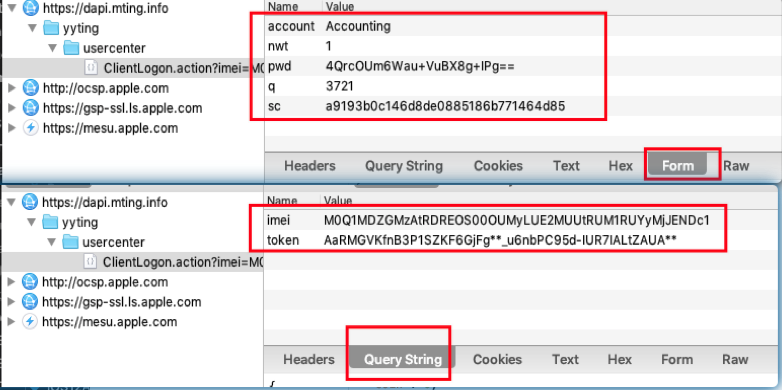
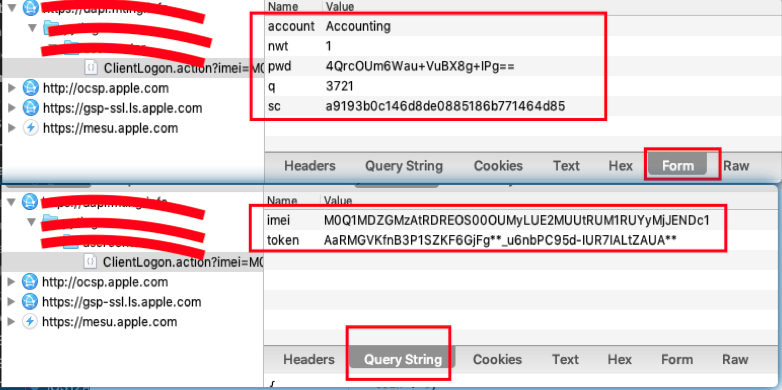
no message

Changed region(s): [[0.0307, 0.4923, 0.2762, 0.6769], [0.0307, 0.0, 0.2762, 0.1846]]

diff --git a/2019/12/23/ListenBookApp/index.html b/2019/12/23/ListenBookApp/index.html
@@ -259,7 +259,7 @@
 </li>
 <li><p>通过Charles抓包。猜测是通过token判断是不是VIP，如果不是，list列表为空，就没有播放链接，这下就歇菜了。</p>
 <ul>
-<li>进入播放页面请求：<a href="https://dapis.mting.info/yyting/gateway/entityPath.action(此处省略很多)" target="_blank" rel="noopener">https://dapis.mting.info/yyting/gateway/entityPath.action(此处省略很多)</a></li>
+<li>进入播放页面请求：<a href="https://XXOO.info/yyting/gateway/entityPath.action(此处省略很多)" target="_blank" rel="noopener">https://XXOO.info/yyting/gateway/entityPath.action(此处省略很多)</a></li>
 <li>进入播放页面响应：<figure class="highlight plain"><table><tr><td class="gutter"><pre><span class="line">1</span><br><span class="line">2</span><br><span class="line">3</span><br><span class="line">4</span><br><span class="line">5</span><br></pre></td><td class="code"><pre><span class="line">&#123;</span><br><span class="line">  &quot;list&quot;: null,</span><br><span class="line">  &quot;msg&quot;: &quot;收费章节未购买!&quot;,</span><br><span class="line">  &quot;status&quot;: 2</span><br><span class="line">&#125;</span><br></pre></td></tr></table></figure>
 </li>
 </ul>
@@ -270,7 +270,7 @@
 <h2 id="逆向登录过程"><a href="#逆向登录过程" class="headerlink" title="逆向登录过程"></a>逆向登录过程</h2><h3 id="请求参数"><a href="#请求参数" class="headerlink" title="请求参数"></a>请求参数</h3><ul>
 <li>到登录界面，输入用户名和密码，点击登录。通过Charles抓包如图<br><img src="/images/ListenBookApp-02.png" alt></li>
 <li>上图可知请求分为三部分:<ul>
-<li>BaseURL:<code>https://dapi.mting.info/yyting/usercenter/ClientLogon.action</code></li>
+<li>BaseURL:<code>https://XXOO.info/XXOO/ClientLogon.action</code></li>
 <li>Query String: <code>imei</code>和<code>token</code></li>
 <li>Form: <code>account</code>,<code>pwd</code>,<code>nwt</code>,<code>q</code>,<code>sc</code></li>
 </ul>
@@ -351,8 +351,8 @@
 <li><p>再次点击登录按钮发现确实执行了，这个值跟Chales里面看到的值是一样的。</p>
 <figure class="highlight shell"><table><tr><td class="gutter"><pre><span class="line">1</span><br><span class="line">2</span><br><span class="line">3</span><br></pre></td><td class="code"><pre><span class="line">Started tracing 13 functions. Press Ctrl+C to stop.</span><br><span class="line">         /* TID 0x403 */</span><br><span class="line">1203 ms  -[__NSDictionaryM setObject:e7b06599148c4dab5daf45b526e69a4f forKey:sc]</span><br></pre></td></tr></table></figure>
 </li>
-<li><p>这个时候就需要追踪v60的来源。发现v60是<code>[v57 MD5DigestToNSString]</code>，也就是对v57进行md5得到v60。而v57又来自于v56。v56是拼接的字符串，拼接的是<code>v55</code>和<code>OoiwGoii2!5kU#@ku0BWm</code>两个字符串。</p>
-<figure class="highlight shell"><table><tr><td class="gutter"><pre><span class="line">1</span><br><span class="line">2</span><br><span class="line">3</span><br><span class="line">4</span><br><span class="line">5</span><br><span class="line">6</span><br><span class="line">7</span><br><span class="line">8</span><br><span class="line">9</span><br><span class="line">10</span><br><span class="line">11</span><br></pre></td><td class="code"><pre><span class="line">v56 = objc_msgSend(</span><br><span class="line">        &amp;OBJC_CLASS___NSString,</span><br><span class="line">        "stringWithFormat:",</span><br><span class="line">        CFSTR("%@%@"),</span><br><span class="line">        v55,</span><br><span class="line">        CFSTR("OoiwGoii2!5kU#@ku0BWm"),</span><br><span class="line">        v83);</span><br><span class="line">v57 = (void *)objc_retainAutoreleasedReturnValue(v56);</span><br><span class="line">v58 = v57;</span><br><span class="line">v59 = objc_msgSend(v57, "MD5DigestToNSString");</span><br><span class="line">v60 = (void *)objc_retainAutoreleasedReturnValue(v59);</span><br></pre></td></tr></table></figure>
+<li><p>这个时候就需要追踪v60的来源。发现v60是<code>[v57 MD5DigestToNSString]</code>，也就是对v57进行md5得到v60。而v57又来自于v56。v56是拼接的字符串，拼接的是<code>v55</code>和<code>OoiwGXXOO!5kU#@ku0BWm</code>两个字符串。</p>
+<figure class="highlight shell"><table><tr><td class="gutter"><pre><span class="line">1</span><br><span class="line">2</span><br><span class="line">3</span><br><span class="line">4</span><br><span class="line">5</span><br><span class="line">6</span><br><span class="line">7</span><br><span class="line">8</span><br><span class="line">9</span><br><span class="line">10</span><br><span class="line">11</span><br></pre></td><td class="code"><pre><span class="line">v56 = objc_msgSend(</span><br><span class="line">        &amp;OBJC_CLASS___NSString,</span><br><span class="line">        "stringWithFormat:",</span><br><span class="line">        CFSTR("%@%@"),</span><br><span class="line">        v55,</span><br><span class="line">        CFSTR("OoiwGXXOO!5kU#@ku0BWm"),</span><br><span class="line">        v83);</span><br><span class="line">v57 = (void *)objc_retainAutoreleasedReturnValue(v56);</span><br><span class="line">v58 = v57;</span><br><span class="line">v59 = objc_msgSend(v57, "MD5DigestToNSString");</span><br><span class="line">v60 = (void *)objc_retainAutoreleasedReturnValue(v59);</span><br></pre></td></tr></table></figure>
 </li>
 <li><p>接下来看看v55来自于v54,v54也是字符串的拼接。</p>
 <figure class="highlight objc"><table><tr><td class="gutter"><pre><span class="line">1</span><br><span class="line">2</span><br></pre></td><td class="code"><pre><span class="line">v54 = objc_msgSend(&amp;OBJC_CLASS___NSString, <span class="string">"createURLStringWithPath:andParams:"</span>, v52, v8);</span><br><span class="line">v55 = (<span class="keyword">void</span> *)objc_retainAutoreleasedReturnValue(v54);</span><br></pre></td></tr></table></figure>
@@ -361,14 +361,14 @@
 <figure class="highlight js"><table><tr><td class="gutter"><pre><span class="line">1</span><br><span class="line">2</span><br><span class="line">3</span><br><span class="line">4</span><br><span class="line">5</span><br><span class="line">6</span><br></pre></td><td class="code"><pre><span class="line">onEnter: <span class="function"><span class="keyword">function</span> (<span class="params">log, args, state</span>) </span>&#123;</span><br><span class="line">  log(<span class="string">'+[NSString createURLStringWithPath:'</span> + ObjC.Object(args[<span class="number">2</span>])+ <span class="string">' andParams:'</span> + ObjC.Object(args[<span class="number">3</span>]) + <span class="string">']'</span>);</span><br><span class="line">&#125;,</span><br><span class="line">onLeave: <span class="function"><span class="keyword">function</span> (<span class="params">log, retval, state</span>) </span>&#123;</span><br><span class="line">  log(<span class="string">'函数返回值'</span> + ObjC.Object(retval));</span><br><span class="line">&#125;</span><br></pre></td></tr></table></figure>
 </li>
 <li><p>终端再次执行上面的跟踪命令,点击登录按钮输出如下。</p>
-<figure class="highlight html"><table><tr><td class="gutter"><pre><span class="line">1</span><br><span class="line">2</span><br><span class="line">3</span><br><span class="line">4</span><br><span class="line">5</span><br><span class="line">6</span><br><span class="line">7</span><br><span class="line">8</span><br><span class="line">9</span><br></pre></td><td class="code"><pre><span class="line">+[NSString createURLStringWithPath:/yyting/usercenter/ClientLogon.action andParams:&#123;</span><br><span class="line">   account = Tyyy;</span><br><span class="line">   imei = M0Q1MDZGMzAtRDREOS00OUMyLUE2MUUtRUM1RUYyMjJENDc1;</span><br><span class="line">   nwt = 1;</span><br><span class="line">   pwd = "0QkGw9rBFy1PYL1B8iSudQ==";</span><br><span class="line">   q = 411;</span><br><span class="line">   token = "wQYGmjeAR1zP1SZKF6GjFg**_u6nbPC95d-IUR7IALtZAUA**";</span><br><span class="line"> &#125;]</span><br><span class="line"> 1538 ms  函数返回值/yyting/usercenter/ClientLogon.action?account=Tyyy&amp;imei=M0Q1MDZGMzAtRDREOS00OUMyLUE2MUUtRUM1RUYyMjJENDc1&amp;nwt=1&amp;pwd=0QkGw9rBFy1PYL1B8iSudQ==&amp;q=411&amp; token=wQYGmjeAR1zP1SZKF6GjFg**_u6nbPC95d-IUR7IALtZAUA**</span><br></pre></td></tr></table></figure>
+<figure class="highlight html"><table><tr><td class="gutter"><pre><span class="line">1</span><br><span class="line">2</span><br><span class="line">3</span><br><span class="line">4</span><br><span class="line">5</span><br><span class="line">6</span><br><span class="line">7</span><br><span class="line">8</span><br><span class="line">9</span><br></pre></td><td class="code"><pre><span class="line">+[NSString createURLStringWithPath:/XXOO/ClientLogon.action andParams:&#123;</span><br><span class="line">   account = Tyyy;</span><br><span class="line">   imei = M0Q1MDZGMzAtRDREOS00OUMyLUE2MUUtRUM1RUYyMjJENDc1;</span><br><span class="line">   nwt = 1;</span><br><span class="line">   pwd = "0QkGw9rBFy1PYL1B8iSudQ==";</span><br><span class="line">   q = 411;</span><br><span class="line">   token = "wQYGmjeAR1zP1SZKF6GjFg**_u6nbPC95d-IUR7IALtZAUA**";</span><br><span class="line"> &#125;]</span><br><span class="line"> 1538 ms  函数返回值/XXOO/ClientLogon.action?account=Tyyy&amp;imei=M0Q1MDZGMzAtRDREOS00OUMyLUE2MUUtRUM1RUYyMjJENDc1&amp;nwt=1&amp;pwd=0QkGw9rBFy1PYL1B8iSudQ==&amp;q=411&amp; token=wQYGmjeAR1zP1SZKF6GjFg**_u6nbPC95d-IUR7IALtZAUA**</span><br></pre></td></tr></table></figure>
 </li>
 <li><p>这下就跟明确了，所需要的值都已经求出了，只要拼接就可以得到相应的字符串</p>
 </li>
 </ul>
 <h3 id="说在最后"><a href="#说在最后" class="headerlink" title="说在最后"></a>说在最后</h3><ul>
 <li><p>最终代码如下</p>
-<figure class="highlight c"><table><tr><td class="gutter"><pre><span class="line">1</span><br><span class="line">2</span><br><span class="line">3</span><br><span class="line">4</span><br><span class="line">5</span><br><span class="line">6</span><br><span class="line">7</span><br><span class="line">8</span><br><span class="line">9</span><br><span class="line">10</span><br><span class="line">11</span><br><span class="line">12</span><br><span class="line">13</span><br><span class="line">14</span><br><span class="line">15</span><br><span class="line">16</span><br><span class="line">17</span><br><span class="line">18</span><br><span class="line">19</span><br><span class="line">20</span><br><span class="line">21</span><br><span class="line">22</span><br><span class="line">23</span><br><span class="line">24</span><br><span class="line">25</span><br><span class="line">26</span><br><span class="line">27</span><br><span class="line">28</span><br><span class="line">29</span><br><span class="line">30</span><br><span class="line">31</span><br><span class="line">32</span><br><span class="line">33</span><br><span class="line">34</span><br><span class="line">35</span><br><span class="line">36</span><br><span class="line">37</span><br><span class="line">38</span><br><span class="line">39</span><br><span class="line">40</span><br><span class="line">41</span><br><span class="line">42</span><br><span class="line">43</span><br><span class="line">44</span><br><span class="line">45</span><br><span class="line">46</span><br><span class="line">47</span><br><span class="line">48</span><br><span class="line">49</span><br><span class="line">50</span><br><span class="line">51</span><br><span class="line">52</span><br><span class="line">53</span><br><span class="line">54</span><br><span class="line">55</span><br></pre></td><td class="code"><pre><span class="line"><span class="function">NSString *<span class="title">getImei</span><span class="params">()</span> </span>&#123;</span><br><span class="line">  NSString *uuid = [[NSUUID UUID] UUIDString];</span><br><span class="line">  NSData *uuidData = [uuid dataUsingEncoding: NSUTF8StringEncoding];</span><br><span class="line">  NSData *uuidBase64Data = [GTMBase64 encodeData: uuidData];</span><br><span class="line">  NSString *imei = [[NSString alloc] initWithData:uuidBase64Data encoding: NSUTF8StringEncoding];</span><br><span class="line">  <span class="keyword">return</span> imei;</span><br><span class="line">&#125;</span><br><span class="line"></span><br><span class="line"><span class="function">NSString *<span class="title">MD5DigestToNSString</span><span class="params">(NSString *str)</span> </span>&#123;</span><br><span class="line">  <span class="keyword">unsigned</span> <span class="keyword">char</span> v10[<span class="number">16</span>]; </span><br><span class="line">  <span class="keyword">const</span> <span class="keyword">char</span> *v3 = [str UTF8String];</span><br><span class="line">  <span class="keyword">size_t</span> v5 = <span class="built_in">strlen</span>(v3);</span><br><span class="line">  CC_MD5(v3, v5, v10);</span><br><span class="line">  NSMutableString *v7 = ([[NSMutableString alloc] initWithCapacity: <span class="number">32L</span>L]);</span><br><span class="line">  <span class="keyword">long</span> <span class="keyword">long</span>  v8 = <span class="number">0L</span>L;</span><br><span class="line">  <span class="keyword">do</span> [v7 appendFormat:@<span class="string">"%02x"</span>, (<span class="keyword">unsigned</span> <span class="keyword">char</span>)v10[v8++]];</span><br><span class="line">  <span class="keyword">while</span> ( v8 != <span class="number">16</span> );</span><br><span class="line">  <span class="keyword">return</span> v7;</span><br><span class="line">&#125;</span><br><span class="line"></span><br><span class="line">NSString *baseURL = @<span class="string">"https://dapi.mting.info"</span>;</span><br><span class="line">NSString *relativeURL = @<span class="string">"/yyting/usercenter/ClientLogon.action?"</span>;</span><br><span class="line"><span class="comment">// 获取Imei</span></span><br><span class="line">NSString *imei = getImei();</span><br><span class="line"><span class="comment">// 获取token</span></span><br><span class="line">NSString *token = [[NSUserDefaults standardUserDefaults] objectForKey: @<span class="string">"token"</span>];</span><br><span class="line"><span class="comment">// 查询字符串</span></span><br><span class="line">NSString *queryStr = [NSString stringWithFormat:@<span class="string">"imei=%@&amp;token=%@"</span>,imei, token];</span><br><span class="line">NSString *account = @<span class="string">"YourUserName"</span>;</span><br><span class="line">NSString *pwdText = @<span class="string">"YourPassword"</span>;</span><br><span class="line">NSString *pwdMd5 = MD5DigestToNSString(pwdText);</span><br><span class="line">NSData *pwdData = [%c(LMGTMBase64) encodeData: pwdMd5 isChunked: NO];</span><br><span class="line">NSString *pwdBase64 = [[NSString alloc] initWithData:pwdData encoding: NSUTF8StringEncoding];</span><br><span class="line"><span class="comment">// 查询次数</span></span><br><span class="line">NSString *q = @<span class="string">"1"</span>;</span><br><span class="line">NSString *nwt = @<span class="string">"1"</span>;</span><br><span class="line"><span class="comment">// 可以看成是加盐字符串</span></span><br><span class="line">NSString *salt = @<span class="string">"OoiwGoii2!5kU#@ku0BWm"</span>;</span><br><span class="line"><span class="comment">// 生成sc</span></span><br><span class="line">NSString *scStr = [NSString stringWithFormat:@<span class="string">"%@account=%@&amp;imei=%@&amp;nwt=%@&amp;pwd=%@&amp;q=%@&amp;token=%@%@"</span>,</span><br><span class="line">                           relativeURL, account,imei,nwt,pwdBase64,q,token,salt];</span><br><span class="line">NSString *scMd5 = MD5DigestToNSString(scStr);</span><br><span class="line"><span class="comment">// 执行请求</span></span><br><span class="line">NSMutableURLRequest *request = [[NSMutableURLRequest alloc] init];</span><br><span class="line">request.URL = [NSURL URLWithString: [NSString stringWithFormat:@<span class="string">"%@%@%@"</span>,baseURL,relativeURL,queryStr]];</span><br><span class="line">request.HTTPMethod = @<span class="string">"POST"</span>;</span><br><span class="line">NSString *params = [NSString stringWithFormat:@<span class="string">"account=%@&amp;nwt=%@&amp;pwd=%@&amp;q=%@&amp;sc=%@"</span>,</span><br><span class="line">                    account,nwt,pwdBase64,q,scMd5];</span><br><span class="line">NSData *data  = [params dataUsingEncoding: NSUTF8StringEncoding];</span><br><span class="line">request.HTTPBody = data;</span><br><span class="line">NSURLSessionDataTask *dataTask =  [[NSURLSession sharedSession] dataTaskWithRequest:request completionHandler:^(NSData * _Nullable data, NSURLResponse * _Nullable response, NSError * _Nullable error) &#123;</span><br><span class="line">    id obj =[NSJSONSerialization JSONObjectWithData:data options:<span class="number">0</span> error:nil];</span><br><span class="line">    NSLog(@<span class="string">"iOSRE:数据为%@"</span>,obj);</span><br><span class="line">&#125;];</span><br><span class="line">[dataTask resume];</span><br></pre></td></tr></table></figure>
+<figure class="highlight c"><table><tr><td class="gutter"><pre><span class="line">1</span><br><span class="line">2</span><br><span class="line">3</span><br><span class="line">4</span><br><span class="line">5</span><br><span class="line">6</span><br><span class="line">7</span><br><span class="line">8</span><br><span class="line">9</span><br><span class="line">10</span><br><span class="line">11</span><br><span class="line">12</span><br><span class="line">13</span><br><span class="line">14</span><br><span class="line">15</span><br><span class="line">16</span><br><span class="line">17</span><br><span class="line">18</span><br><span class="line">19</span><br><span class="line">20</span><br><span class="line">21</span><br><span class="line">22</span><br><span class="line">23</span><br><span class="line">24</span><br><span class="line">25</span><br><span class="line">26</span><br><span class="line">27</span><br><span class="line">28</span><br><span class="line">29</span><br><span class="line">30</span><br><span class="line">31</span><br><span class="line">32</span><br><span class="line">33</span><br><span class="line">34</span><br><span class="line">35</span><br><span class="line">36</span><br><span class="line">37</span><br><span class="line">38</span><br><span class="line">39</span><br><span class="line">40</span><br><span class="line">41</span><br><span class="line">42</span><br><span class="line">43</span><br><span class="line">44</span><br><span class="line">45</span><br><span class="line">46</span><br><span class="line">47</span><br><span class="line">48</span><br><span class="line">49</span><br><span class="line">50</span><br><span class="line">51</span><br><span class="line">52</span><br><span class="line">53</span><br><span class="line">54</span><br><span class="line">55</span><br></pre></td><td class="code"><pre><span class="line"><span class="function">NSString *<span class="title">getImei</span><span class="params">()</span> </span>&#123;</span><br><span class="line">  NSString *uuid = [[NSUUID UUID] UUIDString];</span><br><span class="line">  NSData *uuidData = [uuid dataUsingEncoding: NSUTF8StringEncoding];</span><br><span class="line">  NSData *uuidBase64Data = [GTMBase64 encodeData: uuidData];</span><br><span class="line">  NSString *imei = [[NSString alloc] initWithData:uuidBase64Data encoding: NSUTF8StringEncoding];</span><br><span class="line">  <span class="keyword">return</span> imei;</span><br><span class="line">&#125;</span><br><span class="line"></span><br><span class="line"><span class="function">NSString *<span class="title">MD5DigestToNSString</span><span class="params">(NSString *str)</span> </span>&#123;</span><br><span class="line">  <span class="keyword">unsigned</span> <span class="keyword">char</span> v10[<span class="number">16</span>]; </span><br><span class="line">  <span class="keyword">const</span> <span class="keyword">char</span> *v3 = [str UTF8String];</span><br><span class="line">  <span class="keyword">size_t</span> v5 = <span class="built_in">strlen</span>(v3);</span><br><span class="line">  CC_MD5(v3, v5, v10);</span><br><span class="line">  NSMutableString *v7 = ([[NSMutableString alloc] initWithCapacity: <span class="number">32L</span>L]);</span><br><span class="line">  <span class="keyword">long</span> <span class="keyword">long</span>  v8 = <span class="number">0L</span>L;</span><br><span class="line">  <span class="keyword">do</span> [v7 appendFormat:@<span class="string">"%02x"</span>, (<span class="keyword">unsigned</span> <span class="keyword">char</span>)v10[v8++]];</span><br><span class="line">  <span class="keyword">while</span> ( v8 != <span class="number">16</span> );</span><br><span class="line">  <span class="keyword">return</span> v7;</span><br><span class="line">&#125;</span><br><span class="line"></span><br><span class="line">NSString *baseURL = @<span class="string">"https://XXOO.info"</span>;</span><br><span class="line">NSString *relativeURL = @<span class="string">"/XXOO/ClientLogon.action?"</span>;</span><br><span class="line"><span class="comment">// 获取Imei</span></span><br><span class="line">NSString *imei = getImei();</span><br><span class="line"><span class="comment">// 获取token</span></span><br><span class="line">NSString *token = [[NSUserDefaults standardUserDefaults] objectForKey: @<span class="string">"token"</span>];</span><br><span class="line"><span class="comment">// 查询字符串</span></span><br><span class="line">NSString *queryStr = [NSString stringWithFormat:@<span class="string">"imei=%@&amp;token=%@"</span>,imei, token];</span><br><span class="line">NSString *account = @<span class="string">"YourUserName"</span>;</span><br><span class="line">NSString *pwdText = @<span class="string">"YourPassword"</span>;</span><br><span class="line">NSString *pwdMd5 = MD5DigestToNSString(pwdText);</span><br><span class="line">NSData *pwdData = [%c(LMGTMBase64) encodeData: pwdMd5 isChunked: NO];</span><br><span class="line">NSString *pwdBase64 = [[NSString alloc] initWithData:pwdData encoding: NSUTF8StringEncoding];</span><br><span class="line"><span class="comment">// 查询次数</span></span><br><span class="line">NSString *q = @<span class="string">"1"</span>;</span><br><span class="line">NSString *nwt = @<span class="string">"1"</span>;</span><br><span class="line"><span class="comment">// 可以看成是加盐字符串</span></span><br><span class="line">NSString *salt = @<span class="string">"OoiwGoii2!5kU#@ku0BWm"</span>;</span><br><span class="line"><span class="comment">// 生成sc</span></span><br><span class="line">NSString *scStr = [NSString stringWithFormat:@<span class="string">"%@account=%@&amp;imei=%@&amp;nwt=%@&amp;pwd=%@&amp;q=%@&amp;token=%@%@"</span>,</span><br><span class="line">                           relativeURL, account,imei,nwt,pwdBase64,q,token,salt];</span><br><span class="line">NSString *scMd5 = MD5DigestToNSString(scStr);</span><br><span class="line"><span class="comment">// 执行请求</span></span><br><span class="line">NSMutableURLRequest *request = [[NSMutableURLRequest alloc] init];</span><br><span class="line">request.URL = [NSURL URLWithString: [NSString stringWithFormat:@<span class="string">"%@%@%@"</span>,baseURL,relativeURL,queryStr]];</span><br><span class="line">request.HTTPMethod = @<span class="string">"POST"</span>;</span><br><span class="line">NSString *params = [NSString stringWithFormat:@<span class="string">"account=%@&amp;nwt=%@&amp;pwd=%@&amp;q=%@&amp;sc=%@"</span>,</span><br><span class="line">                    account,nwt,pwdBase64,q,scMd5];</span><br><span class="line">NSData *data  = [params dataUsingEncoding: NSUTF8StringEncoding];</span><br><span class="line">request.HTTPBody = data;</span><br><span class="line">NSURLSessionDataTask *dataTask =  [[NSURLSession sharedSession] dataTaskWithRequest:request completionHandler:^(NSData * _Nullable data, NSURLResponse * _Nullable response, NSError * _Nullable error) &#123;</span><br><span class="line">    id obj =[NSJSONSerialization JSONObjectWithData:data options:<span class="number">0</span> error:nil];</span><br><span class="line">    NSLog(@<span class="string">"iOSRE:数据为%@"</span>,obj);</span><br><span class="line">&#125;];</span><br><span class="line">[dataTask resume];</span><br></pre></td></tr></table></figure>
 </li>
 <li><p>以上代码有两个地方还没有解析，还不能脱离App运行以上代码</p>
 <ul>

diff --git a/2020/07/27/LaHuoApp/index.html b/2020/07/27/LaHuoApp/index.html
@@ -29,7 +29,7 @@
 <meta property="og:description" content="注意 此文仅限于技术交流，请不要做违法的事情。对于那些居心叵测的人根据此文造成违法的事情与本人无关。此文章不得转载！！！ 关键图片信息已打码，关键代码信息已用XXOO替代。如果APP方需要删除，请发邮件zhulongfei28@gmail.com，谢谢。 这并不是基础教程，需要一定iOS逆向经验的人才能看懂。  准备 ida反汇编mach-o文件 class-dump头文件 Reveal查看APP">
 <meta property="og:locale" content="zh-CN">
 <meta property="og:image" content="http://yoursite.com/images/LaHuoApp-01.png">
-<meta property="og:updated_time" content="2020-07-27T04:26:54.560Z">
+<meta property="og:updated_time" content="2020-07-27T06:47:10.965Z">
 <meta name="twitter:card" content="summary">
 <meta name="twitter:title" content="逆向某拉货APP登录过程">
 <meta name="twitter:description" content="注意 此文仅限于技术交流，请不要做违法的事情。对于那些居心叵测的人根据此文造成违法的事情与本人无关。此文章不得转载！！！ 关键图片信息已打码，关键代码信息已用XXOO替代。如果APP方需要删除，请发邮件zhulongfei28@gmail.com，谢谢。 这并不是基础教程，需要一定iOS逆向经验的人才能看懂。  准备 ida反汇编mach-o文件 class-dump头文件 Reveal查看APP">
@@ -185,9 +185,8 @@
                 <i class="far fa-calendar"></i>
               </span>
               <span class="post-meta-item-text">发表于</span>
-              
 
-              <time title="创建时间：2020-07-27 09:54:25 / 修改时间：12:26:54" itemprop="dateCreated datePublished" datetime="2020-07-27T09:54:25+08:00">2020-07-27</time>
+              <time title="创建时间：2020-07-27 14:47:10" itemprop="dateCreated datePublished" datetime="2020-07-27T14:47:10+08:00">2020-07-27</time>
             </span>
             <span class="post-meta-item">
               <span class="post-meta-item-icon">

diff --git a/index.html b/index.html
@@ -182,9 +182,8 @@
                 <i class="far fa-calendar"></i>
               </span>
               <span class="post-meta-item-text">发表于</span>
-              
 
-              <time title="创建时间：2020-07-27 09:54:25 / 修改时间：12:26:54" itemprop="dateCreated datePublished" datetime="2020-07-27T09:54:25+08:00">2020-07-27</time>
+              <time title="创建时间：2020-07-27 14:47:10" itemprop="dateCreated datePublished" datetime="2020-07-27T14:47:10+08:00">2020-07-27</time>
             </span>
             <span class="post-meta-item">
               <span class="post-meta-item-icon">

diff --git a/archives/2020/07/index.html b/archives/2020/07/index.html
@@ -175,7 +175,7 @@
 
       <div class="post-meta">
         <time itemprop="dateCreated"
-              datetime="2020-07-27T09:54:25+08:00"
+              datetime="2020-07-27T14:47:10+08:00"
               content="2020-07-27">
           07-27
         </time>

diff --git a/archives/2020/index.html b/archives/2020/index.html
@@ -175,7 +175,7 @@
 
       <div class="post-meta">
         <time itemprop="dateCreated"
-              datetime="2020-07-27T09:54:25+08:00"
+              datetime="2020-07-27T14:47:10+08:00"
               content="2020-07-27">
           07-27
         </time>

diff --git a/archives/index.html b/archives/index.html
@@ -175,7 +175,7 @@
 
       <div class="post-meta">
         <time itemprop="dateCreated"
-              datetime="2020-07-27T09:54:25+08:00"
+              datetime="2020-07-27T14:47:10+08:00"
               content="2020-07-27">
           07-27
         </time>

diff --git a/categories/iOS逆向/index.html b/categories/iOS逆向/index.html
@@ -177,7 +177,7 @@
 
       <div class="post-meta">
         <time itemprop="dateCreated"
-              datetime="2020-07-27T09:54:25+08:00"
+              datetime="2020-07-27T14:47:10+08:00"
               content="2020-07-27">
           07-27
         </time>

diff --git a/tags/iOS/index.html b/tags/iOS/index.html
@@ -177,7 +177,7 @@
 
       <div class="post-meta">
         <time itemprop="dateCreated"
-              datetime="2020-07-27T09:54:25+08:00"
+              datetime="2020-07-27T14:47:10+08:00"
               content="2020-07-27">
           07-27
         </time>

diff --git a/tags/逆向/index.html b/tags/逆向/index.html
@@ -177,7 +177,7 @@
 
       <div class="post-meta">
         <time itemprop="dateCreated"
-              datetime="2020-07-27T09:54:25+08:00"
+              datetime="2020-07-27T14:47:10+08:00"
               content="2020-07-27">
           07-27
         </time>

diff --git a/css/main.css b/css/main.css
@@ -1165,7 +1165,7 @@ pre .javascript .function {
 }
 .links-of-author a::before,
 .links-of-author span.exturl::before {
-  background: #ffffed;
+  background: #b9f5ff;
   border-radius: 50%;
   content: ' ';
   display: inline-block;
